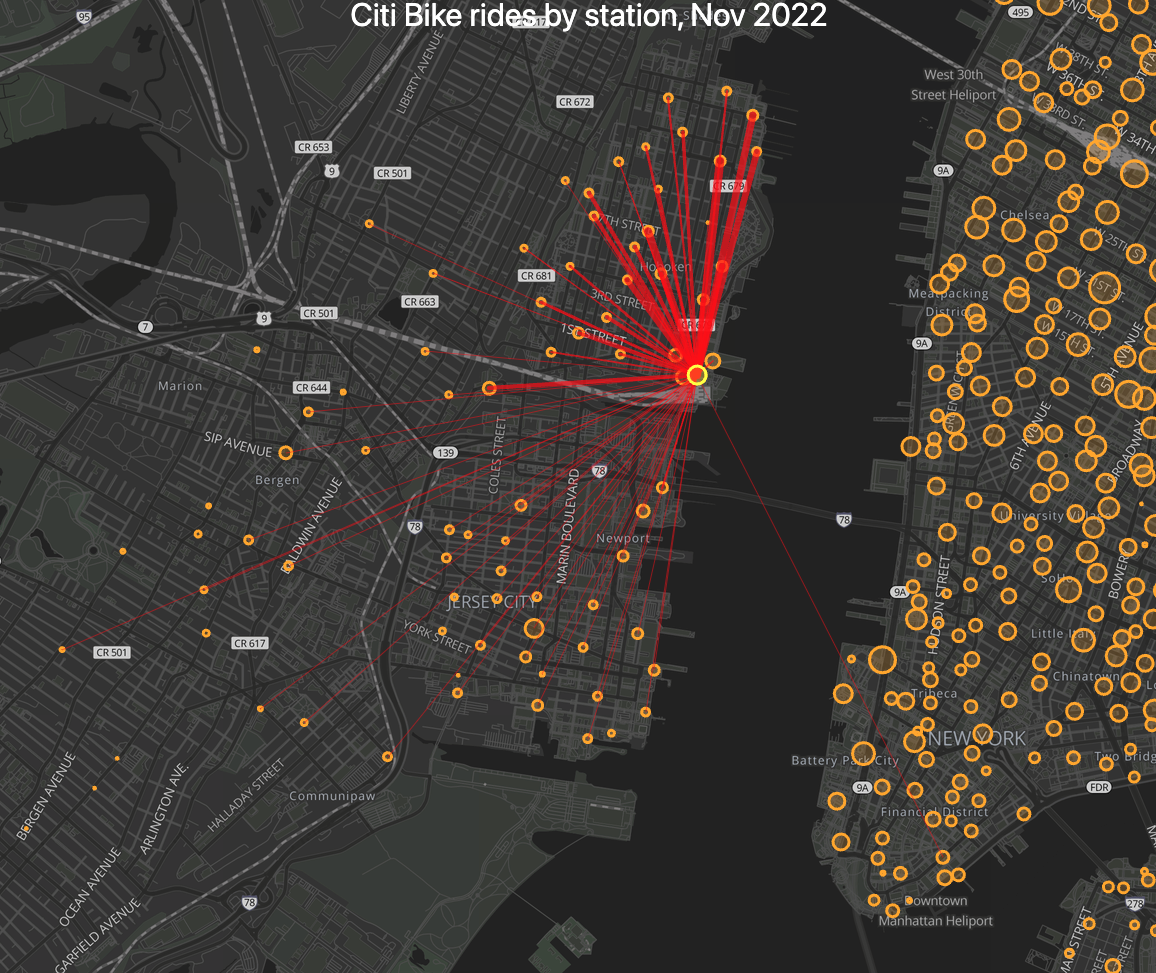
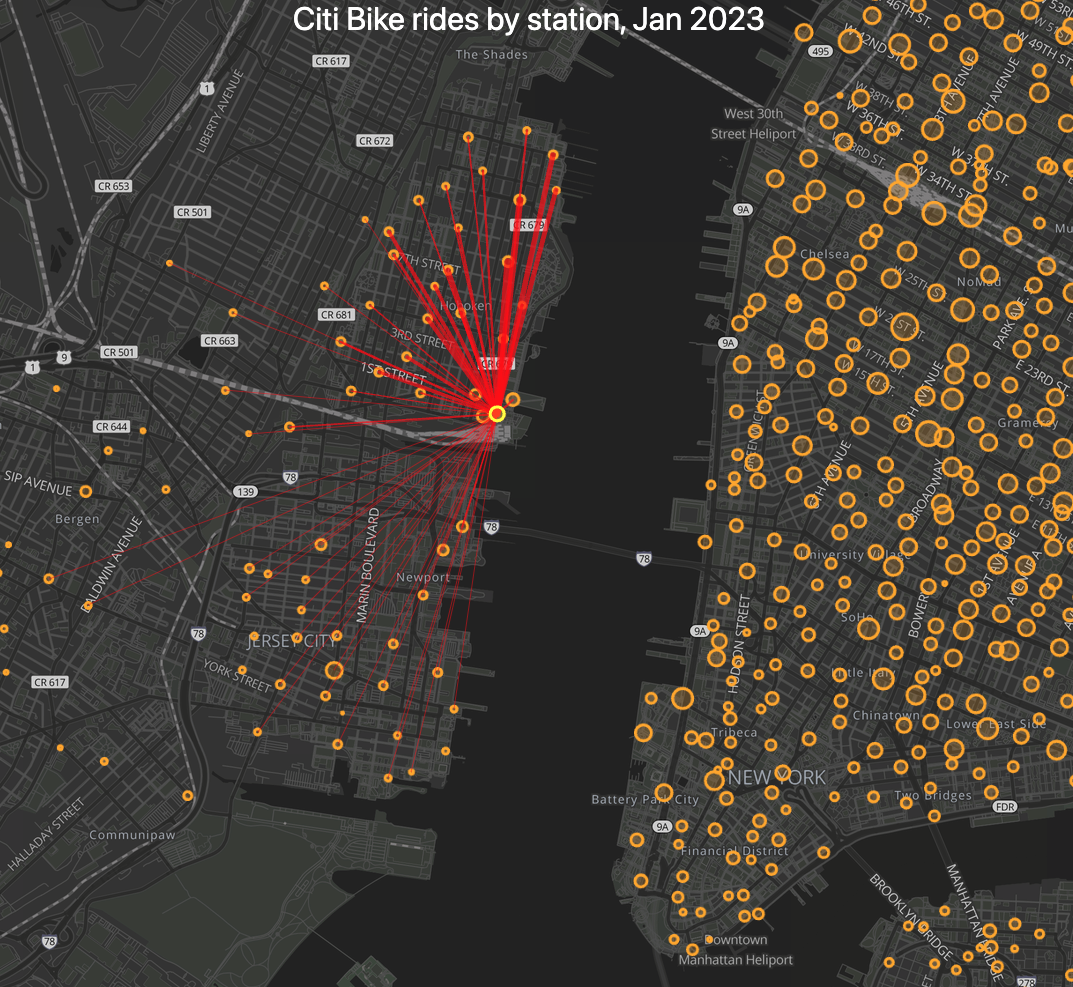
update map screenshot

diff --git a/www/pages/index.tsx b/www/pages/index.tsx
@@ -604,7 +604,7 @@ export default function App({ data, }: { data: Row[] }) {
                         <p><a href={"https://github.com/neighbor-ryan/ctbk.dev"}>The GitHub repo</a> has more info as well as <a href={"https://github.com/neighbor-ryan/ctbk.dev/issues"}>planned enhancements</a>.</p>
                         <hr/>
                         <h3 id={"map"}>Map: Stations + Common Destinations</h3>
-                        <p>Check out <Link href={"./stations"}>this map visualization of stations and their ridership counts in November 2022</Link>.</p>
+                        <p>Check out <Link href={"./stations"}>this map visualization of stations and their ridership counts in January 2023</Link>.</p>
                         <a href={"./stations"}><img className={css.map} src={"screenshots/ctbk-stations.png"} /></a>
                         <hr />
                         <h3 id="qc">🚧 Data-quality issues 🚧</h3>
